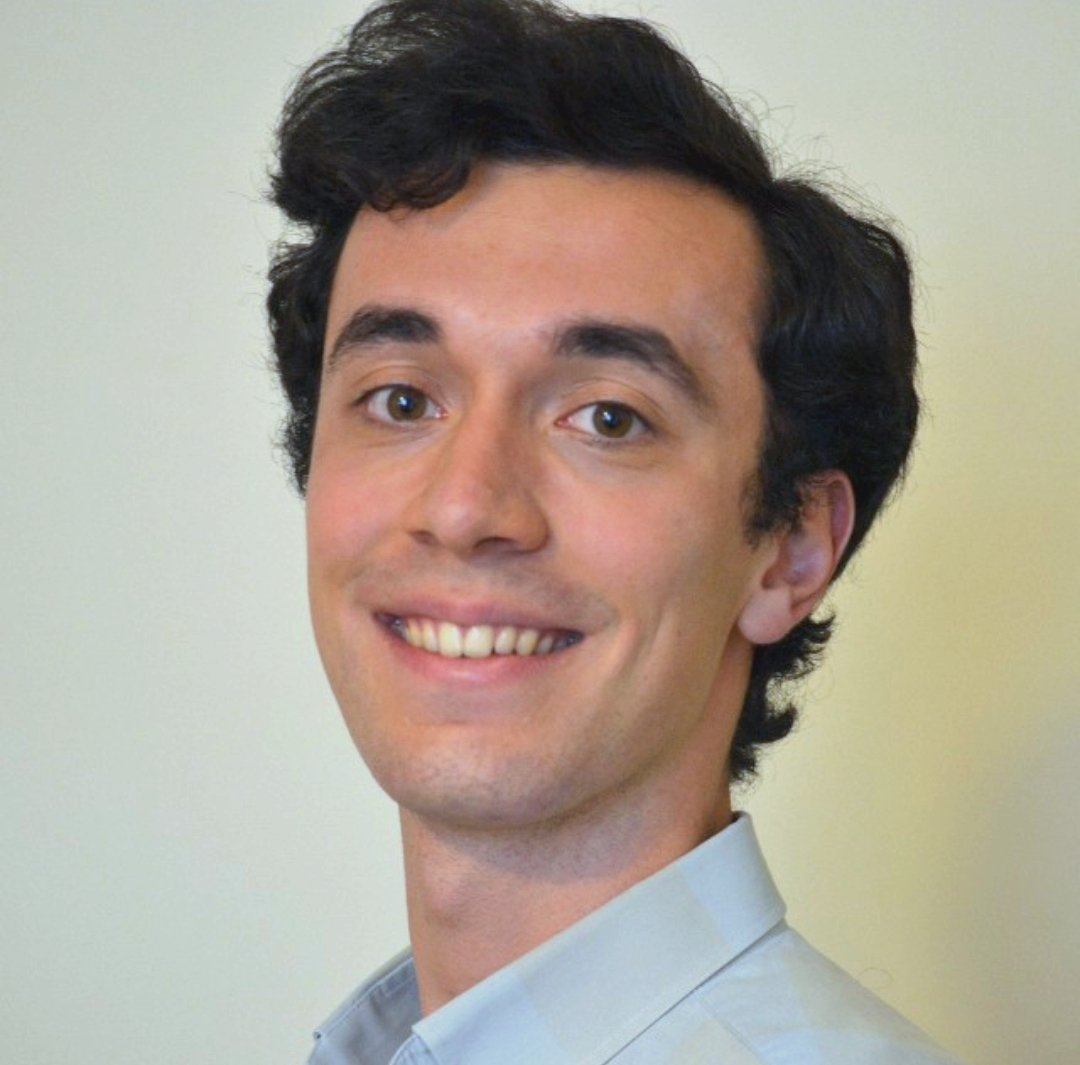
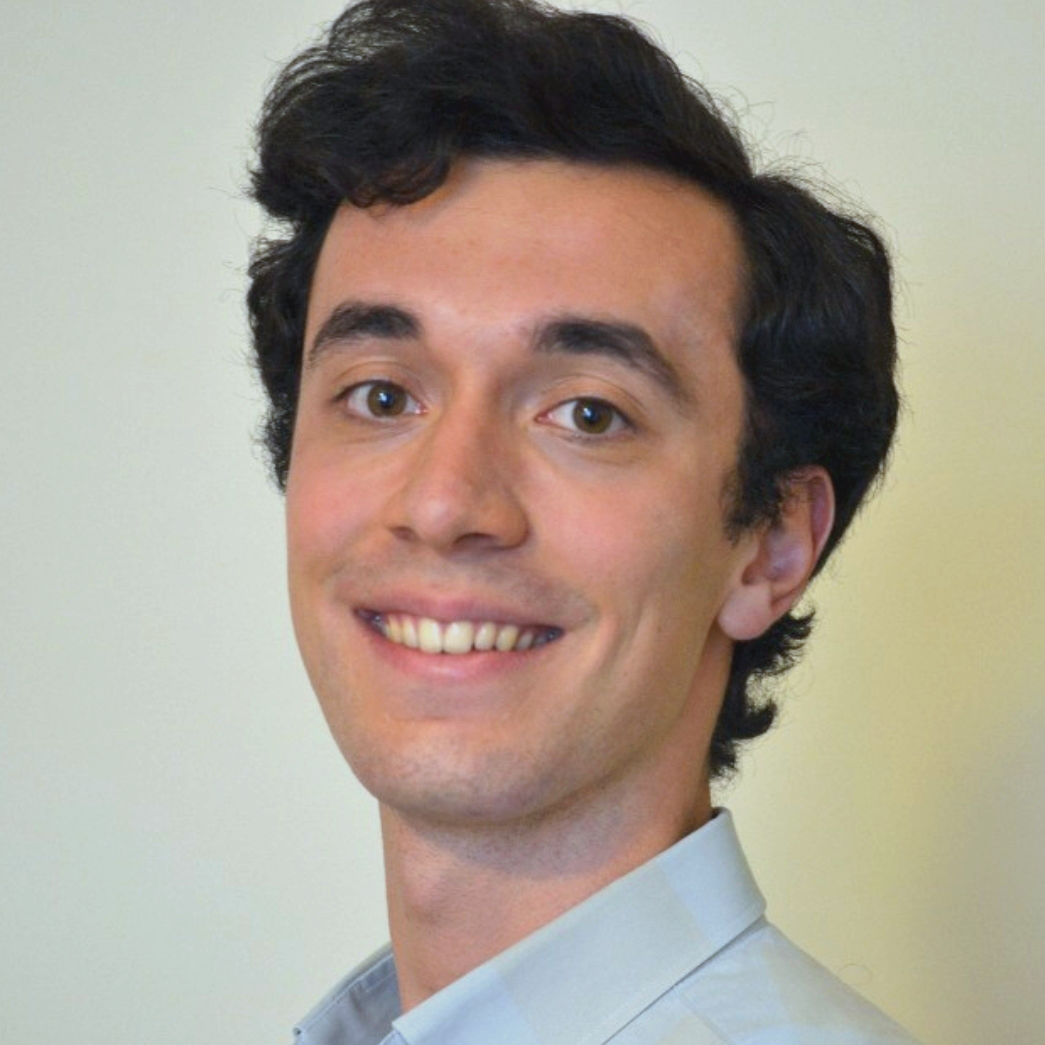
Copy group content to the home page

diff --git a/css/main.scss b/css/main.scss
@@ -69,8 +69,8 @@ p.byline {
 .bdata-img-headshot {
   border-radius: 50%;
   box-shadow: 2px 2px 5px #888888;
-  width: 150px;
-  height: 150px;
+  width: 100%;
+  height: 100%;
   margin-left: auto;
   margin-right: auto;
   display: block;
@@ -78,8 +78,8 @@ p.byline {
 
 @media (max-width: $screen-sm-min) {
   .bdata-img-headshot {
-    width: 100px;
-    height: 100px;
+    width: 100%;
+    height: 100%;
   }
 }
 
@@ -183,11 +183,6 @@ p.byline {
   }
 }
 
-#homeid img {
-  margin: 0 0 0 0;
-  border-radius: 5%;
-  box-shadow: 0px 0px 0px #888888;
-}
 #picid img {
   margin: 6px 3px 60px 6px;
   border-radius: 1%;

diff --git a/_pages/team.md b/_pages/team.md
@@ -6,56 +6,4 @@ sitemap: false
 permalink: /team/
 ---
 
-# Our Group
-
-<!-- **We are  looking for new PhD students, Postdocs, and Master students to join the team** [(see openings)]({{ site.url }}{{ site.baseurl }}/vacancies) **!**
-
-## Members -->
-
-<div class="row">
-
-{% assign sorted_people = site.people | sort: 'priority' | where:"is_visiting","false"%}
-{% for member in sorted_people %}
-
-<div class="col-sm-3 col-xs-6 clearfix">
-<div class="bdata-member">
-<img src= "{{ site.url }}{{ site.baseurl }}/{{site.RESOURCES_PATH}}/headshots/{{member.headshot}}" class="img-responsive bdata-img-headshot">
-
-#### [{{ member.name }}]({{member.site}})
-
-<i>{{ member.title }}</i>
-
-</div>
-
-</div>
-
-{% endfor %}
-
-</div>
-
-## Current Visitors
-
-<div class="row">
-{% assign sorted_people = site.people | sort: 'priority' | where:"is_visiting","true"%}
-{% for member in sorted_people %}
-<div class="col-sm-3 col-xs-6 clearfix">
-<div class="bdata-member">
-<img src= "{{ site.url }}{{ site.baseurl }}/{{site.RESOURCES_PATH}}/headshots/{{member.headshot}}" class="img-responsive bdata-img-headshot">
-
-#### [{{ member.name }}]({{member.site}})
-
-<i>{{ member.title }}</i>
-
-</div>
-
-</div>
-
-{% endfor %}
-
-</div>
-
-<!-- Commenting out since we don't have any
-
-## Alumni
-
-We don't currently have any! But we could add some using a `.yml` file in the `data` directory. -->
+{% include group.md %}

diff --git a/_includes/group.md b/_includes/group.md
@@ -1,0 +1,53 @@
+# Our Group
+
+<!-- **We are  looking for new PhD students, Postdocs, and Master students to join the team** [(see openings)]({{ site.url }}{{ site.baseurl }}/vacancies) **!**
+
+## Members -->
+
+<div class="row">
+
+{% assign sorted_people = site.people | sort: 'priority' | where:"is_visiting","false"%}
+{% for member in sorted_people %}
+
+<div class="col-sm-3 col-xs-6 clearfix">
+<div class="bdata-member">
+<img src= "{{ site.url }}{{ site.baseurl }}/{{site.RESOURCES_PATH}}/headshots/{{member.headshot}}" class="img-responsive bdata-img-headshot">
+
+#### [{{ member.name }}]({{member.site}})
+
+<i>{{ member.title }}</i>
+
+</div>
+
+</div>
+
+{% endfor %}
+
+</div>
+
+## Current Visitors
+
+<div class="row">
+{% assign sorted_people = site.people | sort: 'priority' | where:"is_visiting","true"%}
+{% for member in sorted_people %}
+<div class="col-sm-3 col-xs-6 clearfix">
+<div class="bdata-member">
+<img src= "{{ site.url }}{{ site.baseurl }}/{{site.RESOURCES_PATH}}/headshots/{{member.headshot}}" class="img-responsive bdata-img-headshot">
+
+#### [{{ member.name }}]({{member.site}})
+
+<i>{{ member.title }}</i>
+
+</div>
+
+</div>
+
+{% endfor %}
+
+</div>
+
+<!-- Commenting out since we don't have any
+
+## Alumni
+
+We don't currently have any! But we could add some using a `.yml` file in the `data` directory. -->

diff --git a/_pages/home.md b/_pages/home.md
@@ -16,4 +16,4 @@ We are grateful for funding from... WHO FUNDS US.
 
 **TODO**: Tim will write 1 paragraph about the group
 
-**TODO**: Team members could be on home page
+{% include group.md %}
